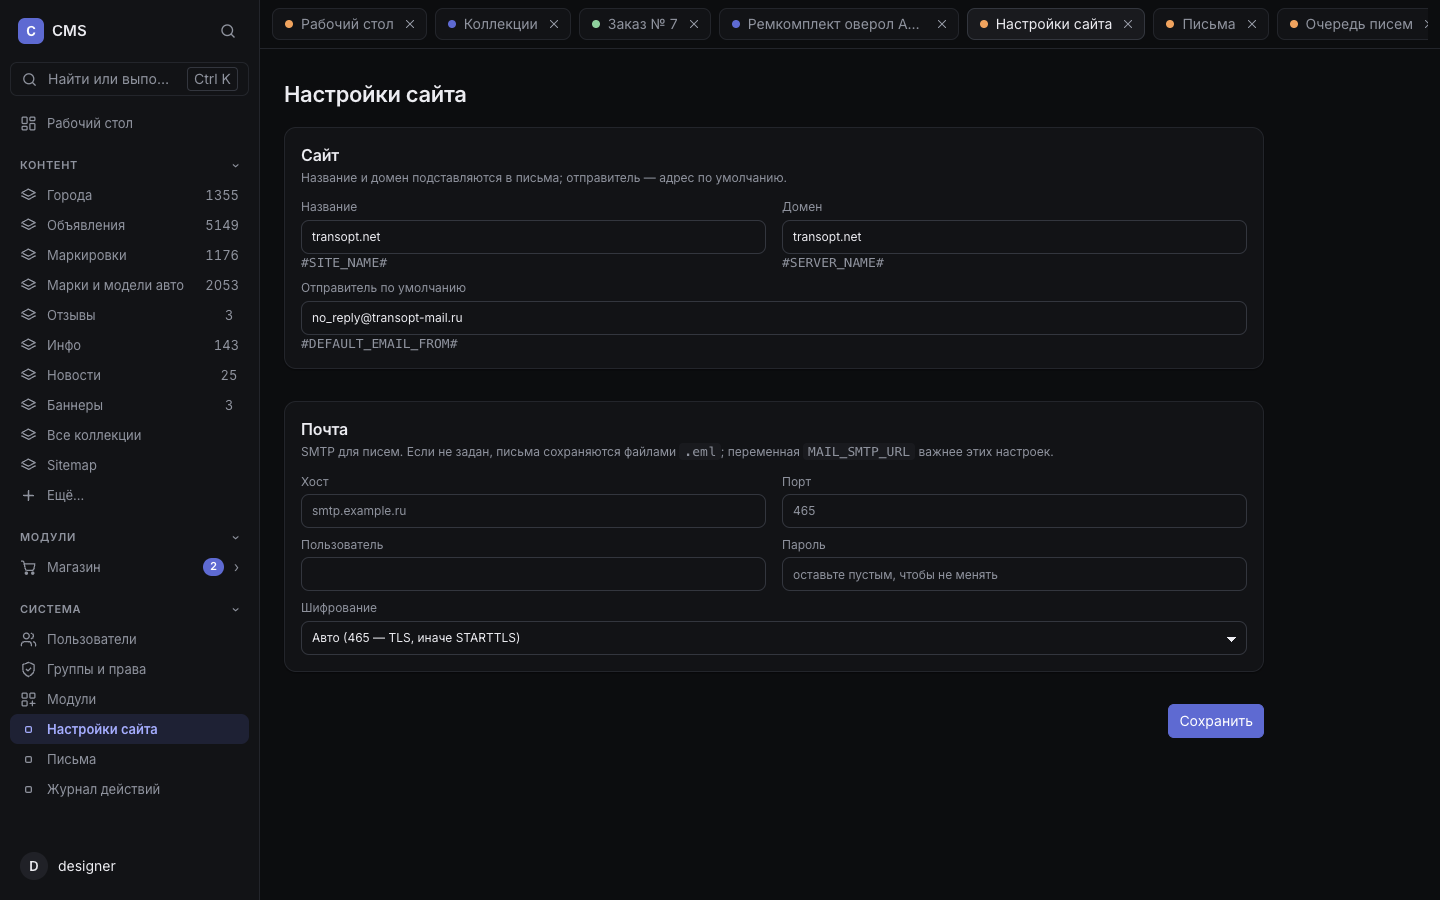
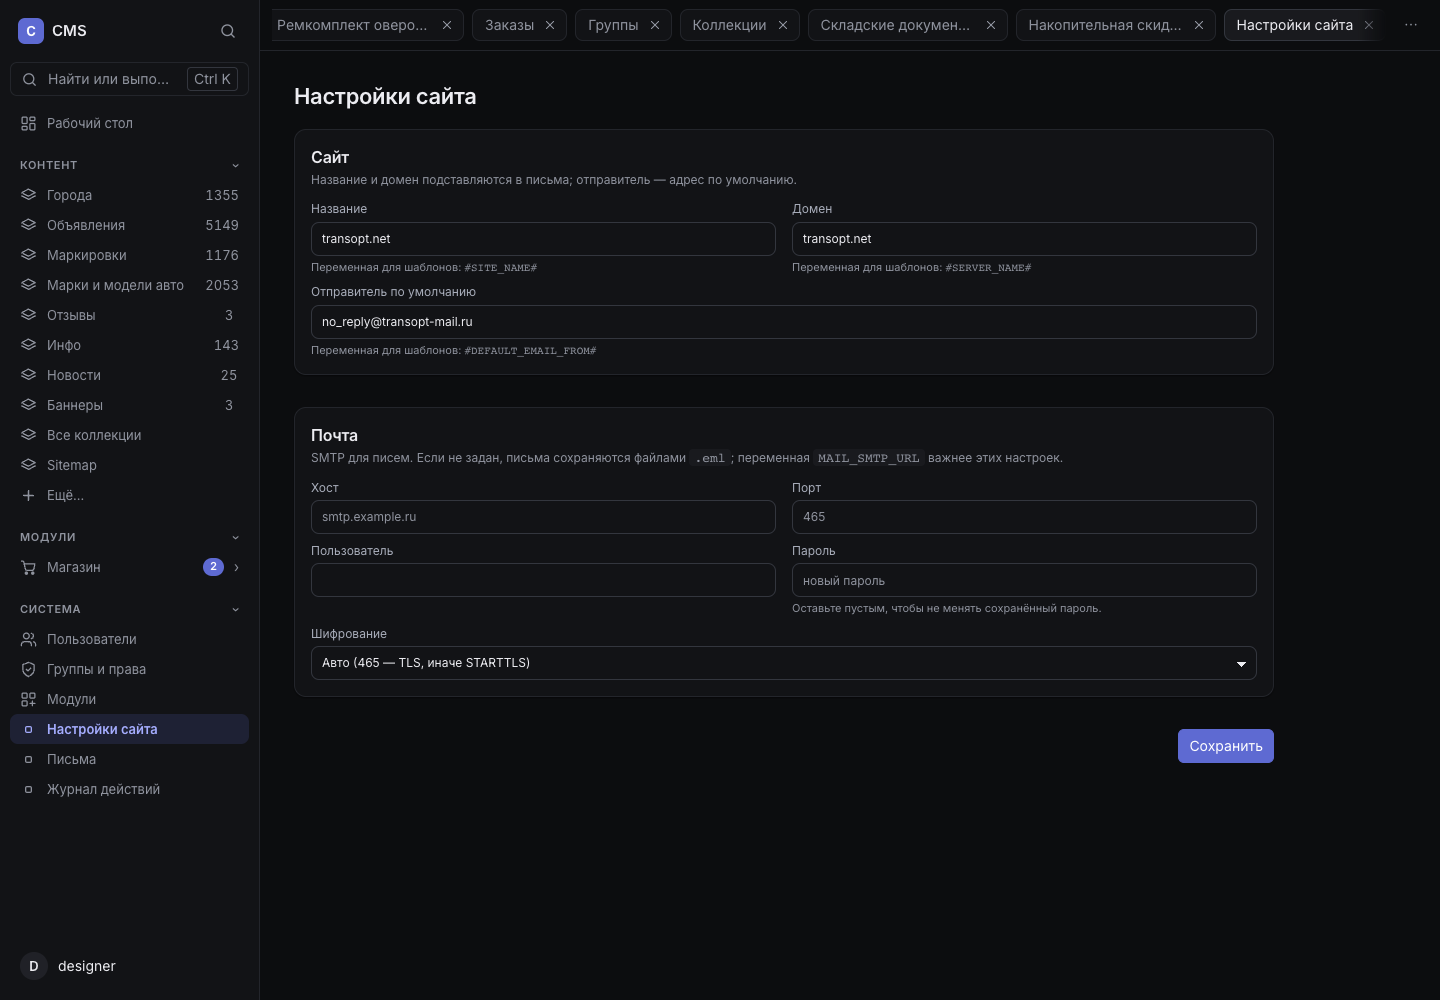
Дизайн: подсказки настроек сайта и форма письма

diff --git a/templates/admin/settings.html b/templates/admin/settings.html
@@ -14,9 +14,9 @@
     <p>Название и домен подставляются в письма; отправитель — адрес по умолчанию.</p>
   </div>
   <div class="grid-2">
-    <label>Название<input name="site_name" value="{{ input.site_name if input else settings.site_name }}" maxlength="255"><small><code>#SITE_NAME#</code></small></label>
-    <label>Домен<input name="server_name" value="{{ input.server_name if input else settings.server_name }}" maxlength="255" placeholder="example.ru"><small><code>#SERVER_NAME#</code></small></label>
-    <label class="wide">Отправитель по умолчанию<input name="email_from" value="{{ input.email_from if input else settings.email_from }}" maxlength="255" placeholder="no-reply@example.ru"><small><code>#DEFAULT_EMAIL_FROM#</code></small></label>
+    <label>Название<input name="site_name" value="{{ input.site_name if input else settings.site_name }}" maxlength="255"><small class="field-hint">Переменная для шаблонов: <code>#SITE_NAME#</code></small></label>
+    <label>Домен<input name="server_name" value="{{ input.server_name if input else settings.server_name }}" maxlength="255" placeholder="example.ru"><small class="field-hint">Переменная для шаблонов: <code>#SERVER_NAME#</code></small></label>
+    <label class="wide">Отправитель по умолчанию<input name="email_from" value="{{ input.email_from if input else settings.email_from }}" maxlength="255" placeholder="no-reply@example.ru"><small class="field-hint">Переменная для шаблонов: <code>#DEFAULT_EMAIL_FROM#</code></small></label>
   </div>
 </section>
 
@@ -29,7 +29,7 @@
     <label>Хост<input name="smtp_host" value="{{ input.smtp_host if input else settings.smtp_host }}" maxlength="255" placeholder="smtp.example.ru"></label>
     <label>Порт<input name="smtp_port" value="{{ input.smtp_port if input else settings.smtp_port }}" maxlength="5" placeholder="465"></label>
     <label>Пользователь<input name="smtp_user" value="{{ input.smtp_user if input else settings.smtp_user }}" maxlength="255"></label>
-    <label>Пароль<input name="smtp_password" type="password" value="" autocomplete="new-password" placeholder="оставьте пустым, чтобы не менять"></label>
+    <label>Пароль<input name="smtp_password" type="password" value="" autocomplete="new-password" placeholder="новый пароль"><small class="field-hint">Оставьте пустым, чтобы не менять сохранённый пароль.</small></label>
     <label class="wide">Шифрование<select name="smtp_secure">
 {% for value, label in [("auto", "Авто (465 — TLS, иначе STARTTLS)"), ("none", "Без шифрования"), ("starttls", "STARTTLS"), ("tls", "TLS")] %}
 {% set current = (input.smtp_secure if input else settings.smtp_secure) or "auto" %}

diff --git a/templates/admin/mail_form.html b/templates/admin/mail_form.html
@@ -6,7 +6,7 @@
   <h1>{{ form.event_name or "Новый шаблон" }}</h1>
   <a class="btn" href="/admin/mail">К списку</a>
 </div>
-<form class="card form" method="post" action="{% if id %}/admin/mail/{{ id }}{% else %}/admin/mail{% endif %}">
+<form class="card form form-narrow" method="post" action="{% if id %}/admin/mail/{{ id }}{% else %}/admin/mail{% endif %}">
 {% if error %}<div class="alert" role="alert">{{ error }}</div>{% endif %}
 <label>Код события<input name="event_name" value="{{ form.event_name }}" maxlength="64" required></label>
 <p class="muted">Заглавные латинские буквы, цифры и «_», например <code>SALE_NEW_ORDER</code>.</p>
@@ -21,7 +21,7 @@
 <option value="{{ value }}" {% if current == value %}selected{% endif %}>{{ label }}</option>
 {% endfor %}</select></label>
 <p class="muted">Подстановки: <code>#ПОЛЕ#</code> из события, плюс <code>#SITE_NAME#</code>, <code>#SERVER_NAME#</code>, <code>#DEFAULT_EMAIL_FROM#</code>. В HTML-письмах значения полей экранируются.</p>
-<label class="checkbox"><input type="checkbox" name="active" value="on" {% if form.active %}checked{% endif %}> Активен</label>
-<button class="btn primary" type="submit">Сохранить</button>
+<label class="check"><input type="checkbox" name="active" value="on" {% if form.active %}checked{% endif %}> Активен</label>
+<div class="form-actions"><button class="btn primary" type="submit">Сохранить</button></div>
 </form>
 {% endblock %}

diff --git a/templates/admin/sitemap_form.html b/templates/admin/sitemap_form.html
@@ -22,7 +22,7 @@
 <p class="muted">Можно выбрать несколько: счётчик суммируется, дата берётся самая свежая.</p>
 <label>Шаблон адреса<input name="path_template" value="{{ form.path_template }}" maxlength="500" placeholder="/product/#ELEMENT_CODE_OR_ID#/"></label>
 <p class="muted">Пусто — берётся шаблон коллекции: <code>detail_page_url</code> для записей, <code>section_page_url</code> для разделов. Подстановки: <code>#ELEMENT_ID#</code>, <code>#ELEMENT_CODE#</code>, <code>#ELEMENT_CODE_OR_ID#</code>, <code>#SECTION_CODE#</code>, <code>#SECTION_CODE_PATH#</code>, <code>#ID#</code>, <code>#CODE#</code>, <code>#SITE_DIR#</code>.</p>
-<label class="checkbox"><input type="checkbox" name="active" value="on" {% if form.active %}checked{% endif %}> Активен</label>
+<label class="check"><input type="checkbox" name="active" value="on" {% if form.active %}checked{% endif %}> Активен</label>
 <button class="btn primary" type="submit">Сохранить</button>
 </form>
 {% endblock %}

diff --git a/static/admin/design.css b/static/admin/design.css
@@ -229,6 +229,8 @@ td { padding: 8px var(--sp-3); }
 .grid-2 .wide { grid-column: 1 / -1; }
 .grid-2 label input, .grid-2 label select { max-width: none; width: 100%; }
 .settings-card small code { background: none; padding: 0; color: var(--muted); }
+.field-hint { display: block; margin-top: var(--sp-1); color: var(--muted); font-size: var(--fs-xs); line-height: 1.4; }
+.field-hint code { font-size: inherit; }
 .settings-actions { display: flex; justify-content: flex-end; }
 .settings-card .form { margin: 0; }
 @media (max-width: 900px) { .grid-2 { grid-template-columns: 1fr; } }

diff --git a/docs/design.md b/docs/design.md
@@ -187,6 +187,15 @@ max-width: на 1440, 1728 и 2044 ширина рабочей области п
 - У изменённого открытого вида рядом с «Сохранить» появился «Вернуть» —
   возврат к настройкам вида без сохранения правок.
 
+### Итерация 12: настройки сайта и письма
+
+- Подсказки-переменные `#SITE_NAME#`, `#SERVER_NAME#`, `#DEFAULT_EMAIL_FROM#`
+  оформлены как вторичный текст 12px под полем, а не конкурируют с подписями.
+- Инструкция «оставьте пустым, чтобы не менять пароль» вынесена из placeholder
+  в постоянную подсказку под полем.
+- Форма письма сужена до 820px, кнопка сохранения — в общем `.form-actions`;
+  чекбокс «Активен» больше не отрывается от подписи.
+
 ## Как смотреть
 
 ```bash
